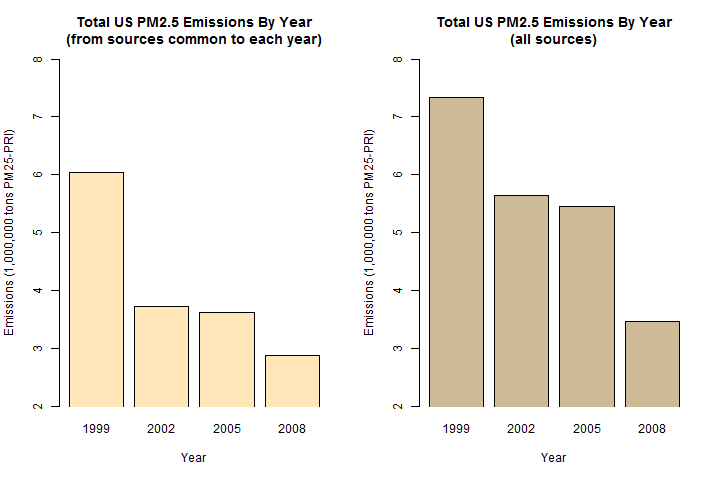
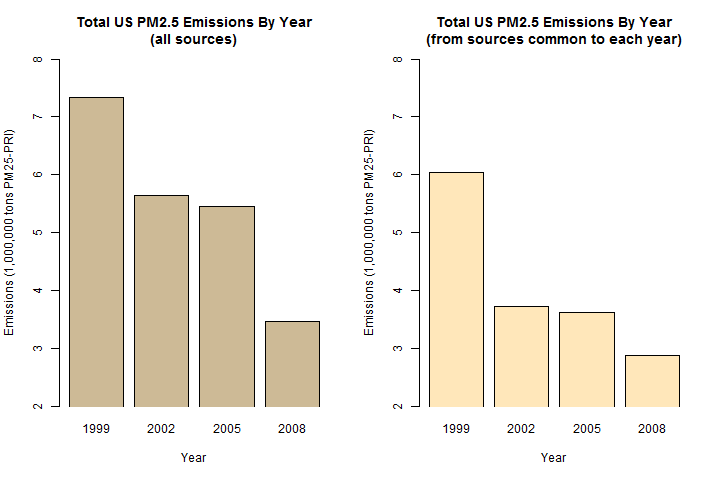
swap order of plot 1 panels

diff --git a/README.md b/README.md
@@ -35,9 +35,8 @@ The following descriptions of the 6 variables in the dataset are as follows:
 <ol>
 <li>Have <b>total</b> emissions from PM2.5 decreased in the United States from 1999 to 2008?
   <ul>
-    <li>Using the base plotting system, a plot showing the total PM2.5 emissions from all sources for each of the years 1999, 2002, 2005, and 2008 was constructed as shown in <b><a href="#id-plot1">Plot 1</a></b> below.</li>
+    <li>Using the base plotting system, a two panel plot showing the total PM2.5 emissions from all sources and from only sources that were common for the reporting years 1999, 2002, 2005, and 2008 was constructed as shown in <b><a href="#id-plot1">Plot 1</a></b> below.</li>
     <li><b><a href="#id-plot1">Plot 1</a></b> suggests that PM25 emissions have decreased every 3 years from 1999 to 2008.</li>
-    <li>To make the comparison more meaningful, only records with sources that were common across the years 1999, 2002, 2005, and 2008 were used.</li>
   </ul>
 </li>
 <li>Have total emissions from PM2.5 decreased in the Baltimore City, Maryland (fips == "24510") from 1999 to 2008? Use the base plotting system to make a plot answering this question.
@@ -134,7 +133,7 @@ Over 90% of the **Emissions** values are < 1.
 <div id='id-making-plots'/>
 ## Making Plots
 
-The overall goal of this project is to explore the National Emissions Inventory database and see what it say about fine particulate matter pollution in the United states over the 10-year period 1999 - 2008. 
+The overall goal of this project was to explore the National Emissions Inventory database and see what it say about fine particulate matter pollution in the United states over the 10-year period 1999 - 2008. 
 
 
 Each plot was construction and saved as a PNG file.
